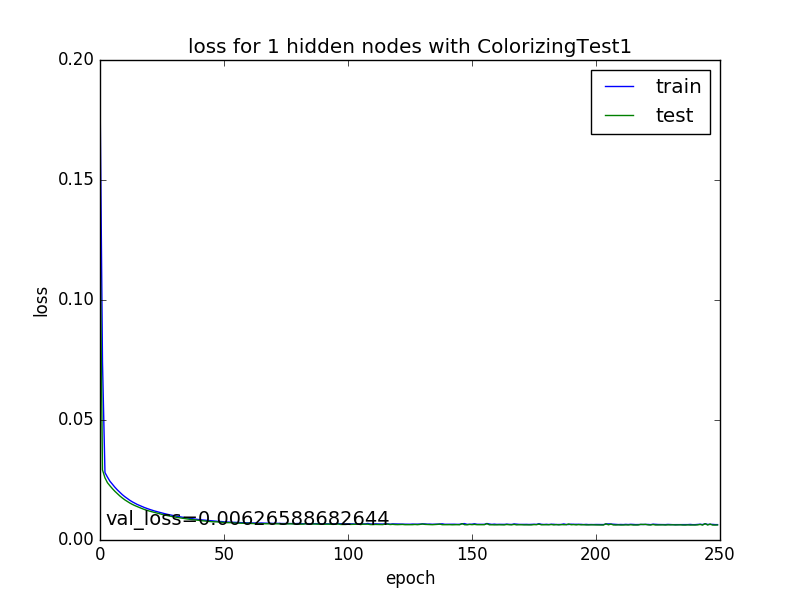
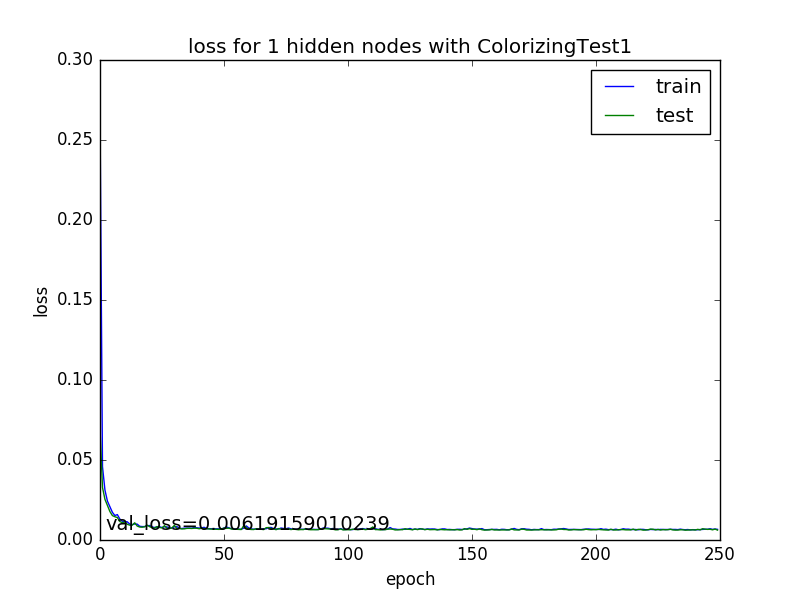
Misc

diff --git a/ColorizingNetwork/ColorizingNet_Cifar10.py b/ColorizingNetwork/ColorizingNet_Cifar10.py
@@ -1,4 +1,3 @@
-# Primeira versão da rede neural capaz de colorir fotos preto e brancas.
 
 from keras.models import Sequential
 from keras.layers import Dense
@@ -37,7 +36,7 @@ EPOCH = 250
 
 
 # Model Options
-kernel1 = [8,3] # 32 Kernels = 2x2
+kernel1 = [32,3] # 32 Kernels = 2x2
 kernel2 = [3,3]
 kernel3 = [64,3]
 dropout = [0.05, 0.1]
@@ -64,6 +63,7 @@ def mkdir_p(mypath):
 
 def rgb2gray(rgb):
     return numpy.dot(rgb[...,:3], [0.299, 0.587, 0.114])
+
 def converter(a,b):
 	for i in range(0,b.shape[0]):
 		a[i,0,:,:] = rgb2gray(b[i,:,:,:].transpose(1,2,0))
@@ -96,7 +96,8 @@ def plotGraph (filename, nodes, vecTrain, vecTest, nameVec):
 ########################
 
 #### load cifar10 dataset
-(Y,a),(Y_test, a_test) = cifar10.load_data()
+(Y,_),(Y_test, _) = cifar10.load_data()
+
 X = numpy.zeros((Y.shape[0],1,Y.shape[2],Y.shape[3]))
 X_test = numpy.zeros((Y_test.shape[0],1,Y.shape[2],Y.shape[3]))
 
@@ -116,9 +117,15 @@ Y /= 255
 X_test /= 255
 Y_test /= 255
 
+
+
+nImages = 512
+
+
+
 # Limit size of dataset
-F = numpy.zeros((512,Y.shape[1],Y.shape[2],Y.shape[3]))
-G = numpy.zeros((512,X.shape[1],X.shape[2],X.shape[3]))
+F = numpy.zeros((nImages,Y.shape[1],Y.shape[2],Y.shape[3]))
+G = numpy.zeros((nImages,X.shape[1],X.shape[2],X.shape[3]))
 F_test = numpy.zeros((128,Y_test.shape[1],Y_test.shape[2],Y_test.shape[3]))
 G_test = numpy.zeros((128,X_test.shape[1],X_test.shape[2],X_test.shape[3]))
 for i in range(0,F.shape[0]):
@@ -135,28 +142,28 @@ print("----------------------------------")
 print("Using Batch =",BATCHSIZE ,"Epoch = ",EPOCH)
 model = Sequential()
 # Layers
-model.add(Convolution2D(kernel1[0], kernel1[1], kernel1[1], border_mode='same', input_shape=(1, 32, 32), activation='relu'))
-model.add(Convolution2D(kernel2[0], kernel2[1], kernel2[1], border_mode='same', activation='relu'))
+model.add(Convolution2D(kernel1[0], kernel1[1], kernel1[1], border_mode='same', init='he_normal', input_shape=(1, 32, 32), activation='relu'))
+model.add(Convolution2D(kernel2[0], kernel2[1], kernel2[1], border_mode='same'))
 
 # Compile
-model.compile(loss='mean_squared_error', optimizer='nadam', metrics=['accuracy'])
+model.compile(loss='mean_squared_error', optimizer='nadam', metrics=['mean_squared_error'])
 print(model.summary())
 
 # Fit
-history = model.fit(G,F,validation_data=(G_test,F_test),nb_epoch=EPOCH,batch_size=BATCHSIZE,verbose=0)
+history = model.fit(G,F,validation_data=(G_test,F_test),nb_epoch=EPOCH,batch_size=BATCHSIZE,verbose=1)
 
 #### Show results
-acc = numpy.array(history.history['acc'])
-val_acc = numpy.array(history.history['val_acc'])
+acc = numpy.array(history.history['mean_squared_error'])
+val_acc = numpy.array(history.history['val_mean_squared_error'])
 loss = numpy.array(history.history['loss'])
 val_loss = numpy.array(history.history['val_loss'])
 # Plotting
 if SHOW_ACC == 1:
-	plotGraph('ColorizingTest1',nodes=1, vecTrain=acc, vecTest=val_acc, nameVec="acc")
+	plotGraph('ColorizingTest1',nodes=1, vecTrain=acc, vecTest=val_acc, nameVec="mean_squred_error")
 if SHOW_LOSS == 1:
 	plotGraph('ColorizingTest1',nodes=1, vecTrain=loss, vecTest=val_loss, nameVec="loss")
 
-print('acc =',acc[EPOCH-1],' val_acc =',val_acc[EPOCH-1],' loss =',loss[EPOCH-1],' val_loss =',loss[EPOCH-1])
+print('MSE =',acc[EPOCH-1],' val_MSE =',val_acc[EPOCH-1],' loss =',loss[EPOCH-1],' val_loss =',loss[EPOCH-1])
 
 # Getting a result sample for model
 pred = model.predict(G)
@@ -164,12 +171,15 @@ plt.imshow(G[120,0,:,:],cmap='gray')
 mkdir_p('results/Test2')
 plt.savefig('results/Test2/input.png')
 plt.show()
-l = pred[120].transpose(1,2,0)
-plt.imshow(l)
-titlestr = 'Epochs='+str(EPOCH)
-plt.title(titlestr)
-plt.savefig('results/Test2/output.png')
-plt.show()
+
+for i in range(128):
+    print (i)
+    l = pred[i].transpose(1,2,0)
+    plt.imshow(l)
+    titlestr = 'Epochs='+str(EPOCH)
+    plt.title(titlestr)
+    plt.savefig('results/Test2/output.png')
+    plt.show()
 
 if SAVE_CSV:
 	print("Saving results to test.csv")
